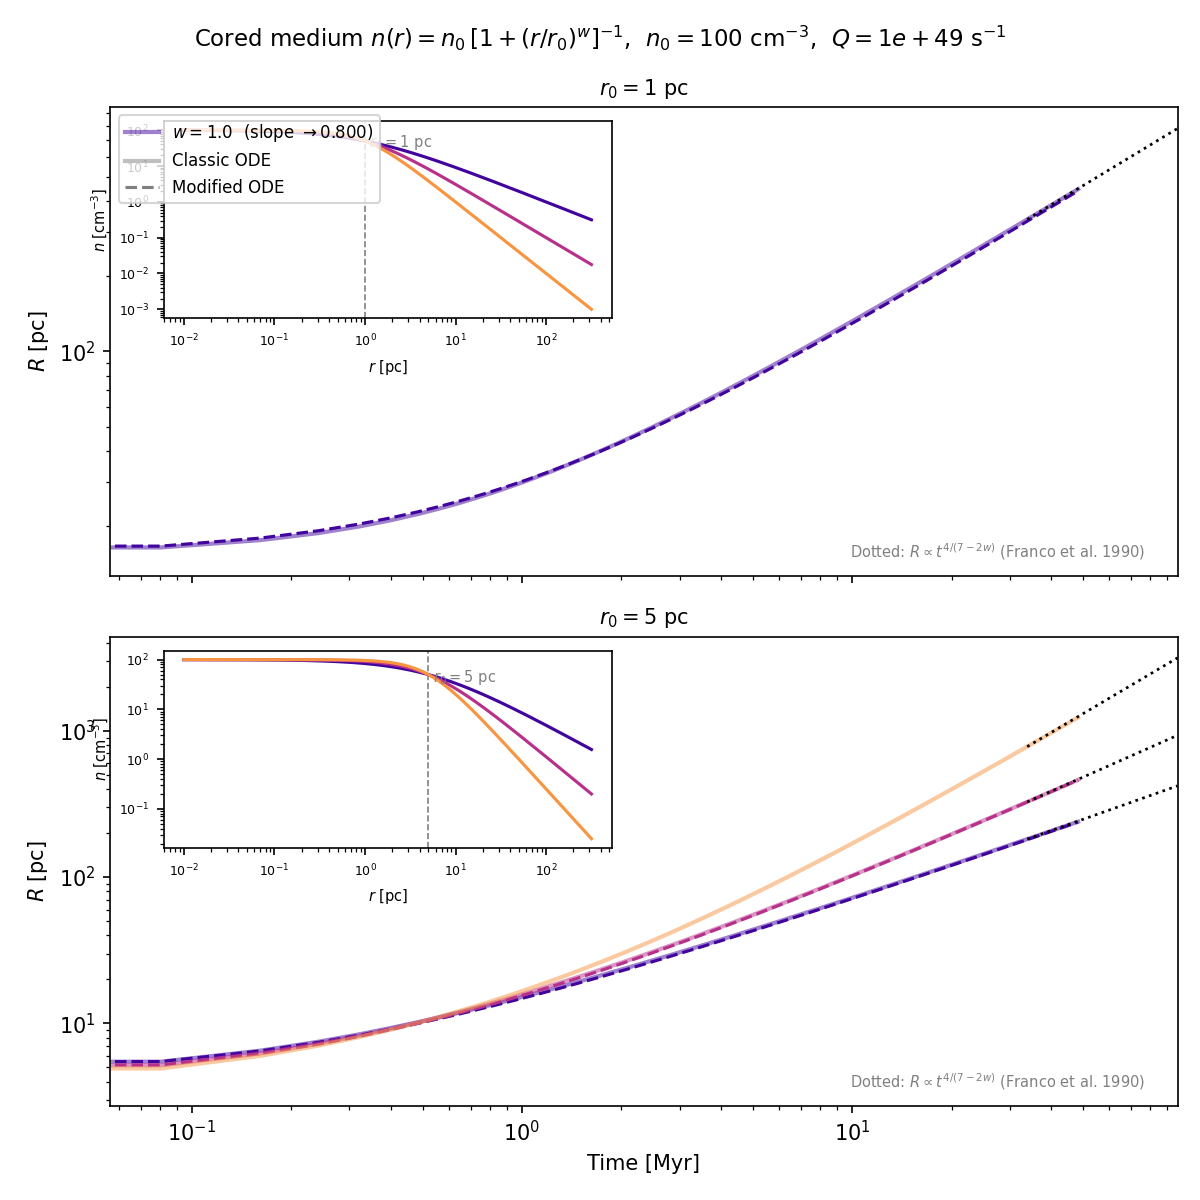
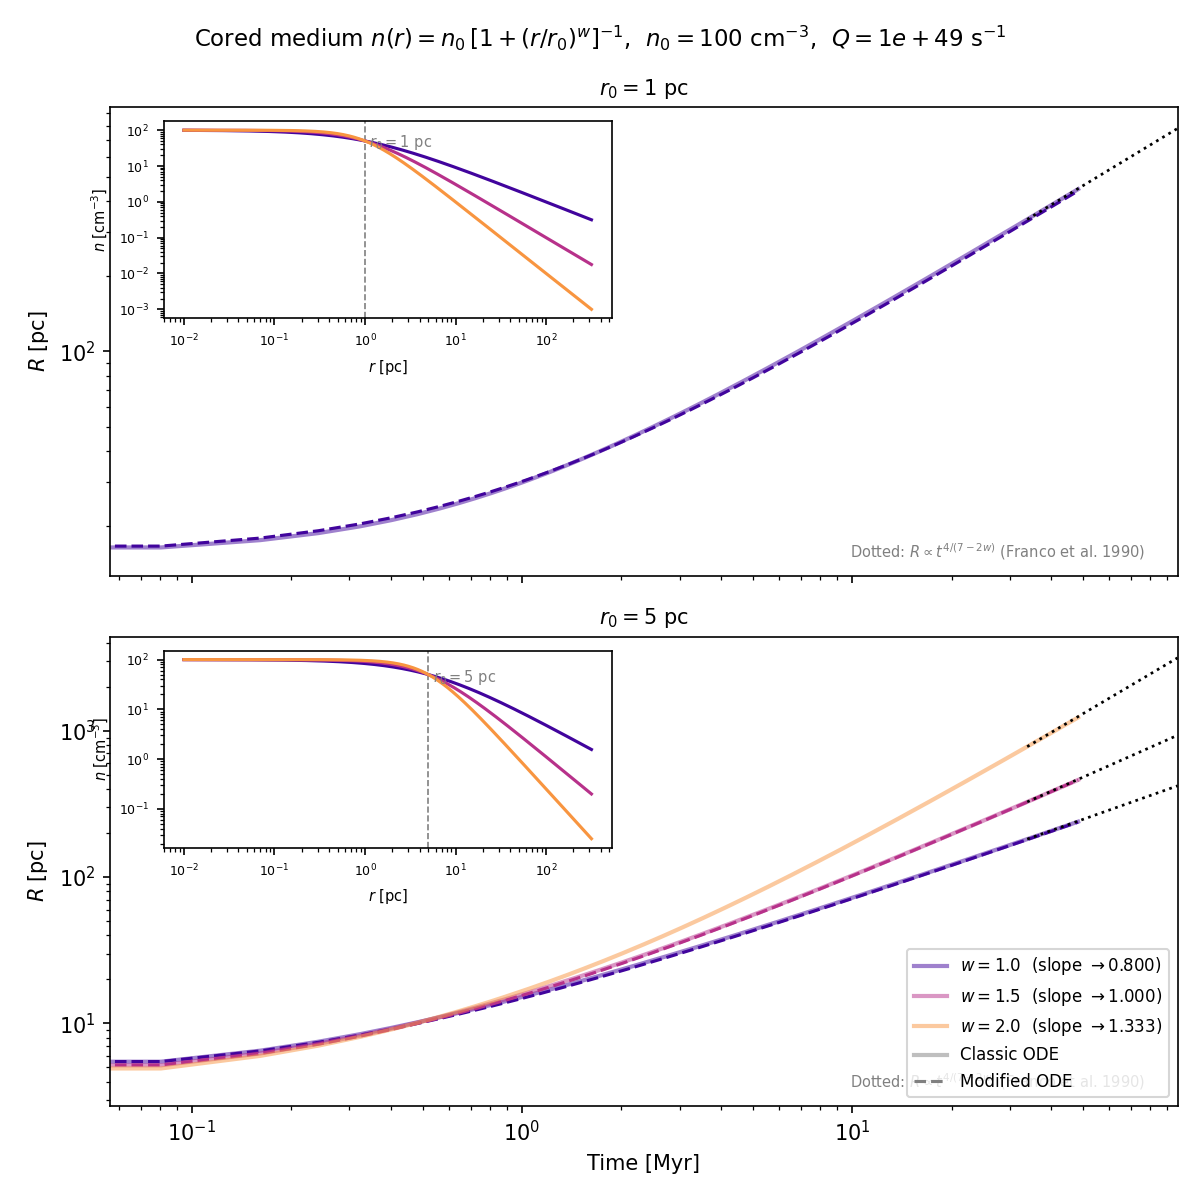
Move cored density legend to lower right of r0=5pc panel

Changed region(s): [[0.74, 0.7708, 0.9867, 0.925], [0.0925, 0.0925, 0.3392, 0.185]]

diff --git a/python/plot_cored_profile.py b/python/plot_cored_profile.py
@@ -113,19 +113,19 @@ for row, r0 in enumerate(R0_VALUES):
     ax_in.set_ylabel(r"$n$ [cm$^{-3}$]", fontsize=7)
     ax_in.tick_params(labelsize=6)
 
-    # ---- legend on first panel only ----
-    if row == 0:
+    # ---- legend on r0=5pc panel only ----
+    if row == 1:
         _solid = mlines.Line2D(
             [], [], color="gray", lw=2.0, alpha=0.5, label="Classic ODE"
         )
         _dash = mlines.Line2D(
             [], [], color="gray", lw=1.5, ls="--", label="Modified ODE"
         )
-        handles, labels = axes[0].get_legend_handles_labels()
-        axes[0].legend(
+        handles, labels = ax_R.get_legend_handles_labels()
+        ax_R.legend(
             handles + [_solid, _dash],
             labels + ["Classic ODE", "Modified ODE"],
-            fontsize=8, loc="upper left",
+            fontsize=8, loc="lower right",
         )
 
 axes[-1].set_xlabel("Time [Myr]")
